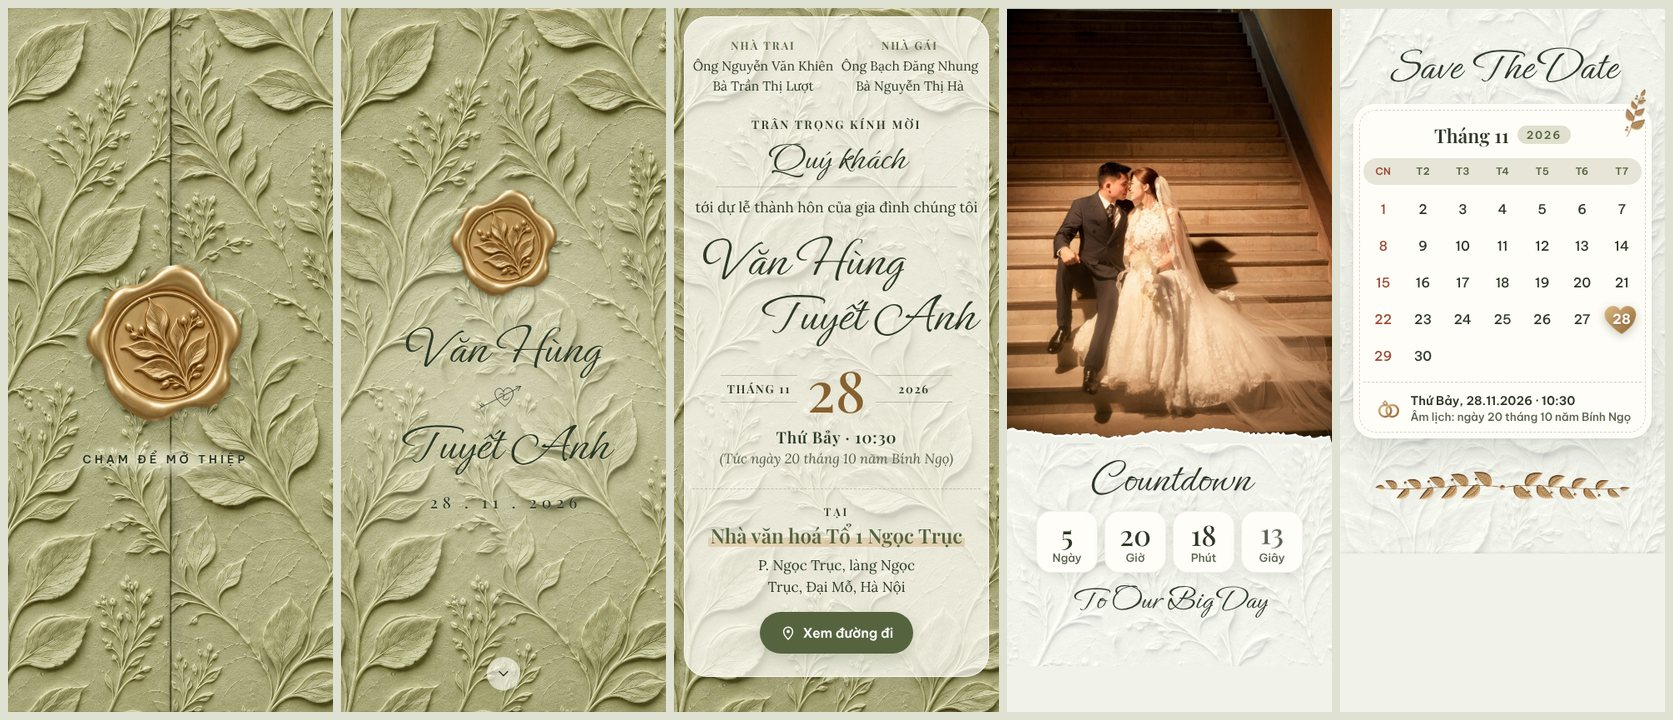
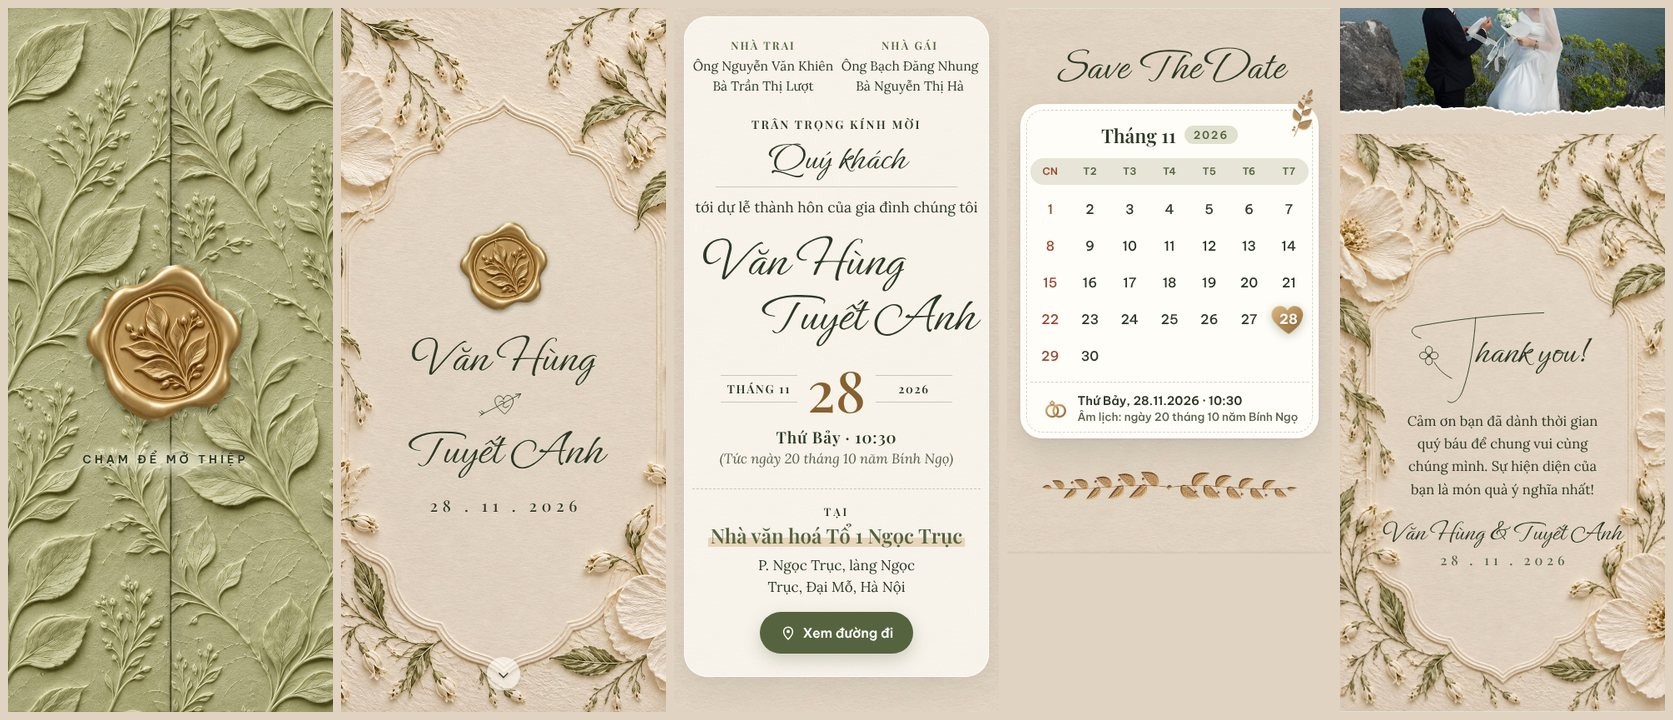
Mẫu xanh pastel: dùng nền trang trong có khung cho đầu thiệp và trang cảm ơn
- Đầu thiệp (sau khi mở bìa): nền trang trong của chủ thiệp, dấu sáp, tên và ngày
  nằm trong lòng khung
- Trang "Thank you!" cuối thiệp đặt trong cùng khung hoa (giữ đúng tỉ lệ ảnh)
- Các phần ở giữa dùng giấy kem lấy từ lòng khung (lặp liền hai chiều);
  lời mời và câu chuyện chuyển sang giấy kem; mép giấy xé cùng màu giấy
- Bỏ trang trong ghép từ bìa (trang-trong.jpg) vì đã có ảnh trang trong riêng
- Ảnh chia sẻ link: bìa và trang trong đặt cạnh nhau; tools/hoa-tiet/giay_be.py

Claude-Session: https://claude.ai/code/session_015XKduHNmYjq2tWTLnQVHa5

diff --git a/xanh-pastel/css/style.css b/xanh-pastel/css/style.css
@@ -63,10 +63,29 @@ section { position: relative; }
 .custom-cover .door.l { background-position: var(--cov-x-l, 0) var(--cov-y, 0); }
 .custom-cover .door.r { background-position: var(--cov-x-r, 0) var(--cov-y, 0); box-shadow: none; }
 .custom-cover .door.r::after { display: none; }
-.custom-cover:not(.custom-inner) .hero { background-image: var(--cover-paper); background-size: cover; background-position: center; background-repeat: no-repeat; }
+.custom-cover:not(.custom-inner):not(.custom-page) .hero { background-image: var(--cover-paper); background-size: cover; background-position: center; background-repeat: no-repeat; }
 /* Trang trong (cover.inner): đầu thiệp, lời mời, câu chuyện — mỗi phần phủ kín một ảnh, không lặp */
 .custom-inner .sage { background-image: var(--inner-paper); background-size: cover; background-position: center; background-repeat: no-repeat; }
 .custom-seal .gate-seal .sheen { left: 12%; top: 11%; width: 76%; }
+/* Trang trong có khung (cover.page): đầu thiệp và trang cảm ơn; chữ nằm trong lòng khung */
+.custom-page .hero { background: var(--cream) var(--page-paper) center / cover no-repeat; padding: 84px 46px 74px; }
+.custom-page .hero::before { display: none; }
+.custom-page .hero-seal { width: 128px; }
+.custom-page .hero-names .name { font-size: clamp(52px, 15.5vw, 64px); }
+.custom-page .end-page {
+  aspect-ratio: 941 / 1672; margin-top: 18px; padding: 22% 15% 18%; display: flex; flex-direction: column; align-items: center; justify-content: center;
+  background: var(--page-paper) center / 100% 100% no-repeat;
+}
+.custom-page .end-page .swash { transform: scale(.9); margin-bottom: -6px; }
+.custom-page .end-page .thanks-text { padding: 0; font-size: 16.5px; }
+.custom-page .end-page .end-sign { font-size: clamp(28px, 8.6vw, 38px); }
+.custom-page .end-page .wave-end { display: none; }
+.custom-page .ending { padding-bottom: 0; }
+@media (max-width: 359px) {
+  .custom-page .end-page .swash { transform: scale(.74); margin: -16px 0 -22px; }
+  .custom-page .end-page .end-sign { font-size: 25px; }
+  .custom-page .end-page .thanks-text { font-size: 15.5px; }
+}
 .cream { background-color: var(--cream); background-image: var(--cream-paper); }
 
 /* ---------- Mép giấy xé ---------- */

diff --git a/xanh-pastel/index.html b/xanh-pastel/index.html
@@ -48,7 +48,7 @@
     </section>
 
     <!-- ===== 3. LỜI MỜI ===== -->
-    <section class="invite sage" id="loi-moi">
+    <section class="invite cream" id="loi-moi">
       <div class="veil">
         <div class="parents rv">
           <div><p class="fam-label" id="famTraiLabel"></p><p id="famTrai"></p></div>
@@ -107,7 +107,7 @@
     </section>
 
     <!-- ===== 5. CÂU CHUYỆN ===== -->
-    <section class="story sage" id="chuyen-tinh">
+    <section class="story cream" id="chuyen-tinh">
       <h2 class="script sec-title lt" data-text="loveStory.title"></h2>
       <div class="story-panel rv">
         <div id="storyText"></div>
@@ -179,11 +179,13 @@
         <img id="endImg" alt="Văn Hùng và Tuyết Anh trên núi nhìn ra vịnh">
         <div class="tear up in-photo" data-tear="8"></div>
       </figure>
-      <h2 class="swash" data-swash="thanks.title"></h2>
-      <p class="sec-text thanks-text rv" data-text="thanks.text"></p>
-      <p class="script end-sign rv" id="endSign"></p>
-      <p class="end-date rv" id="endDate"></p>
-      <div class="wave-end last rv" data-art="garland"></div>
+      <div class="end-page">
+        <h2 class="swash" data-swash="thanks.title"></h2>
+        <p class="sec-text thanks-text rv" data-text="thanks.text"></p>
+        <p class="script end-sign rv" id="endSign"></p>
+        <p class="end-date rv" id="endDate"></p>
+        <div class="wave-end last rv" data-art="garland"></div>
+      </div>
     </section>
   </main>
 

diff --git a/xanh-pastel/js/main.js b/xanh-pastel/js/main.js
@@ -46,7 +46,9 @@
   var SEAL = '<img class="seal-img" src="' + esc(cov.seal || 'assets/dau-sap-vang.webp') + '" alt="" aria-hidden="true" decoding="async">';
   if (cov.seal) body.classList.add('custom-seal');
   if (cov.inner) { root.style.setProperty('--inner-paper', cssUrl(cov.inner)); body.classList.add('custom-inner'); }
+  if (cov.page) { root.style.setProperty('--page-paper', cssUrl(cov.page)); body.classList.add('custom-page'); }
   if (cov.cream) root.style.setProperty('--cream-paper', cssUrl(cov.cream));
+  if (cov.creamColor) root.style.setProperty('--cream', cov.creamColor);
   // Bìa: hai cánh ghép thành đúng một ảnh phủ kín màn hình; dấu sáp đặt đúng chỗ của nó trên ảnh
   var coverReady = Promise.resolve();
   if (cov.paper) {
@@ -78,8 +80,9 @@
     window.addEventListener('resize', fitCover);
   }
   $$('[data-art]').forEach(function (el) { var f = arts[el.getAttribute('data-art')]; el.innerHTML = f ? f() : ''; });
+  var tearColor = (W.cover && W.cover.creamColor) || undefined; // mép giấy xé cùng màu giấy kem
   $$('[data-tear]').forEach(function (el) {
-    el.innerHTML = A.tear(+el.getAttribute('data-tear'), el.classList.contains('down') ? 'down' : 'up');
+    el.innerHTML = A.tear(+el.getAttribute('data-tear'), el.classList.contains('down') ? 'down' : 'up', tearColor);
   });
   $('#gateSeal').innerHTML = SEAL + '<span class="sheen"></span>';
   $('#heroSeal').innerHTML = SEAL;

diff --git a/xanh-pastel/js/config.js b/xanh-pastel/js/config.js
@@ -22,8 +22,9 @@ window.WEDDING = {
     paper: 'assets/bia/bia.jpg',          // bìa 2 cánh, đã xoá dấu sáp; đường gáp nằm đúng giữa ảnh
     seal: 'assets/bia/dau-sap.webp',      // dấu sáp tách riêng, nền trong suốt; nhấc lên khi mở
     sealAt: { x: 0.4829, y: 0.4746, w: 0.4839 }, // vị trí dấu sáp trên ảnh bìa: tâm (x, y) và bề rộng, theo tỉ lệ ảnh
-    inner: 'assets/bia/trang-trong.jpg',  // trang trong (2 cánh ghép liền, không đường gáp): đầu thiệp, lời mời, câu chuyện
-    cream: 'assets/bia/giay-kem.jpg',     // giấy kem cùng hoạ tiết lá: nền các phần còn lại
+    page: 'assets/bia/trang-dau.jpg',     // trang trong có khung và hoa: nền đầu thiệp (sau khi mở bìa) và trang cảm ơn cuối thiệp
+    cream: 'assets/bia/giay-kem.jpg',     // giấy kem lấy từ lòng khung của trang trong: nền các phần ở giữa
+    creamColor: '#E1D3C2',                // màu trung bình của giấy kem (mép giấy xé dùng màu này)
   },
 
   families: {

diff --git a/tools/hoa-tiet/giay_be.py b/tools/hoa-tiet/giay_be.py
@@ -1,0 +1,25 @@
+# Giấy kem (be) lặp liền hai chiều, lấy từ lòng khung của ảnh trang trong
+# Dùng: python3 tools/hoa-tiet/giay_be.py trang-dau.png giay-kem.jpg   (in ra màu trung bình để ghi vào cover.creamColor)
+import sys, math
+import numpy as np
+from PIL import Image
+src, dst = sys.argv[1], sys.argv[2]
+A = np.asarray(Image.open(src).convert('RGB')).astype(float)
+crop = A[560:1240, 140:800]           # lòng khung: giấy trơn, sợi giấy mịn
+h, w, _ = crop.shape
+# bỏ chênh sáng lớn (vignette), chỉ giữ sợi giấy
+mean = crop.mean((0, 1))
+def lowpass(a, s):
+    hh, ww = a.shape
+    fy = np.fft.fftfreq(hh)[:, None]; fx = np.fft.rfftfreq(ww)[None, :]
+    g = np.exp(-2 * (math.pi ** 2) * (s ** 2) * (fx ** 2 + fy ** 2))
+    return np.fft.irfft2(np.fft.rfft2(a) * g, s=a.shape)
+flat = np.stack([crop[..., c] - lowpass(crop[..., c], 60) + mean[c] for c in range(3)], -1)
+# nối liền: trộn với bản lệch nửa ô theo cả hai chiều (trọng số sin²)
+ty = (np.sin(math.pi * np.arange(h) / h) ** 2)[:, None, None]
+tx = (np.sin(math.pi * np.arange(w) / w) ** 2)[None, :, None]
+f1 = flat * ty + np.roll(flat, h // 2, 0) * (1 - ty)
+f2 = f1 * tx + np.roll(f1, w // 2, 1) * (1 - tx)
+Image.fromarray(np.clip(f2, 0, 255).astype(np.uint8)).save(dst, quality=84)
+avg = f2.reshape(-1, 3).mean(0)
+print('tile', f2.shape, 'avg', avg.round(1), '#%02X%02X%02X' % tuple(int(round(x)) for x in avg))

diff --git a/tools/hoa-tiet/README.md b/tools/hoa-tiet/README.md
@@ -28,7 +28,8 @@ Bìa hiện tại làm từ ảnh bìa của chủ thiệp (một ảnh có sẵ
 
 ```bash
 python3 tools/hoa-tiet/tach_bia.py anh-bia.png /tmp/bia            # bia.jpg, dau-sap.png, trang-trong.jpg + in ra sealAt
-python3 tools/hoa-tiet/giay_kem_tu_anh.py /tmp/bia/trang-trong.jpg /tmp/bia/giay-kem.jpg 0.34
+python3 tools/hoa-tiet/giay_be.py anh-trang-trong.png /tmp/bia/giay-kem.jpg   # giấy kem từ lòng khung trang trong + màu trung bình
 ```
 
-Chép kết quả vào `xanh-pastel/assets/bia/` (dấu sáp lưu thành `dau-sap.webp`) và dán dòng `sealAt` in ra vào `config.js`.
+Chép kết quả vào `xanh-pastel/assets/bia/` (dấu sáp lưu thành `dau-sap.webp`, ảnh trang trong lưu thành `trang-dau.jpg`), dán dòng `sealAt` và màu trung bình (`creamColor`) in ra vào `config.js`.
+(`giay_kem_tu_anh.py` là bản cũ: giấy trắng dập nổi lá làm từ ảnh bìa.)
